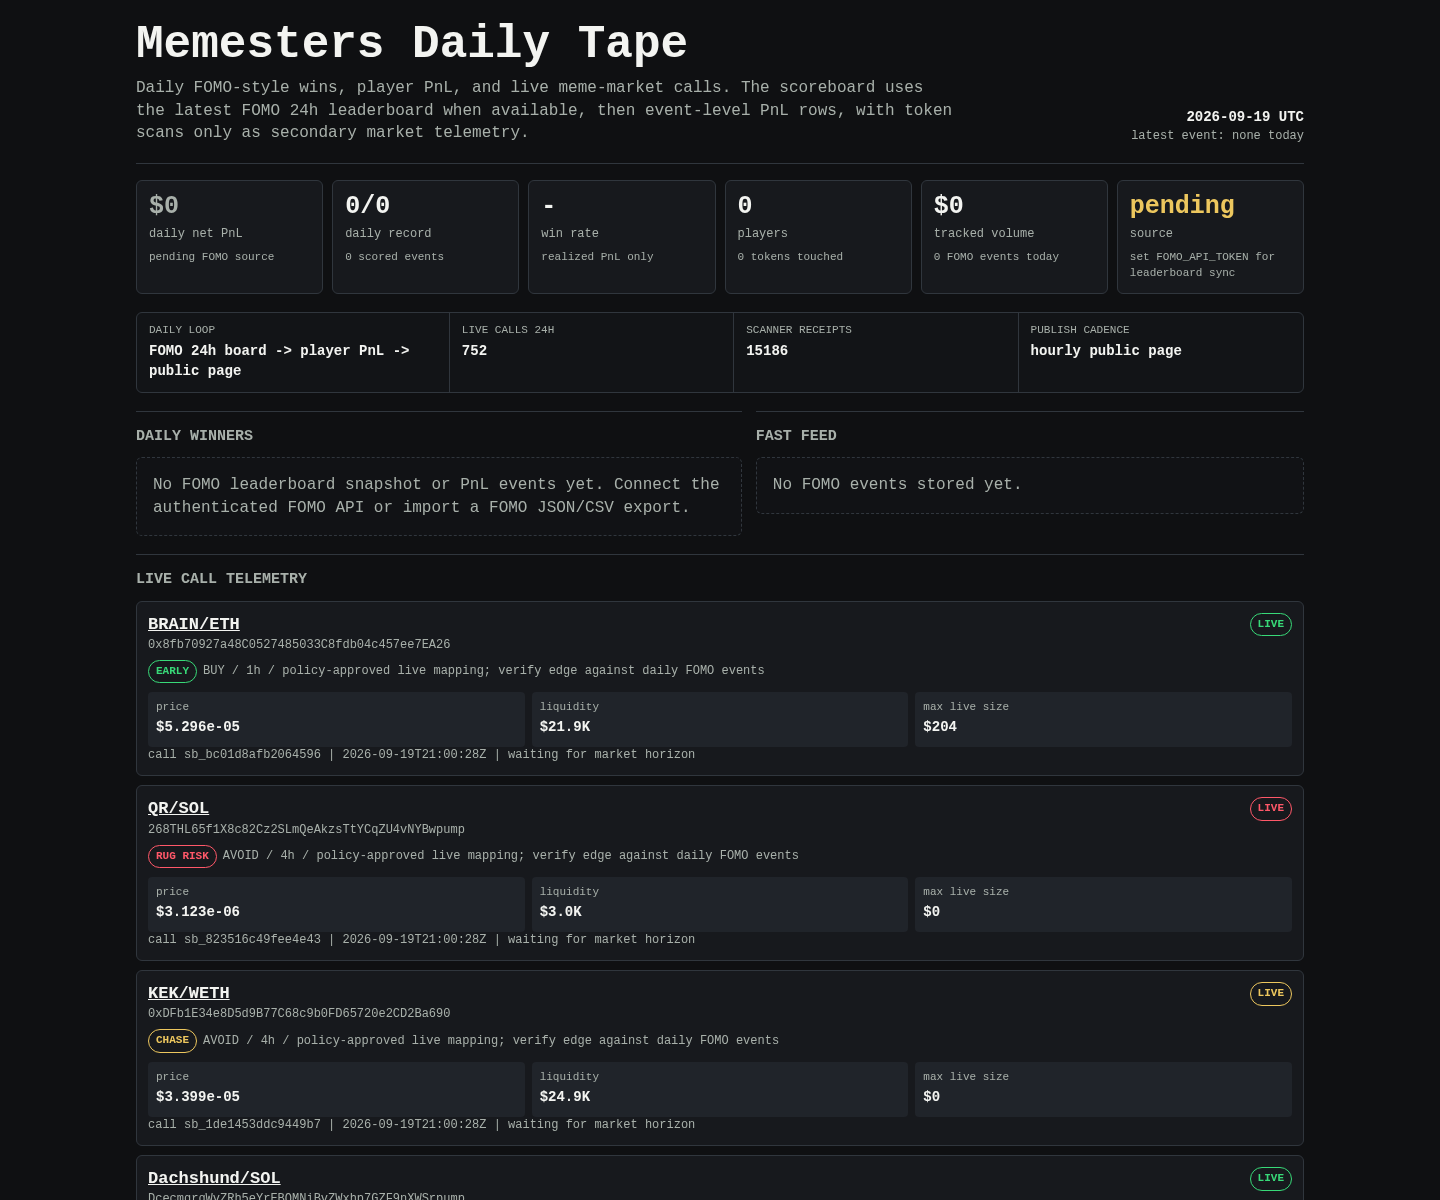
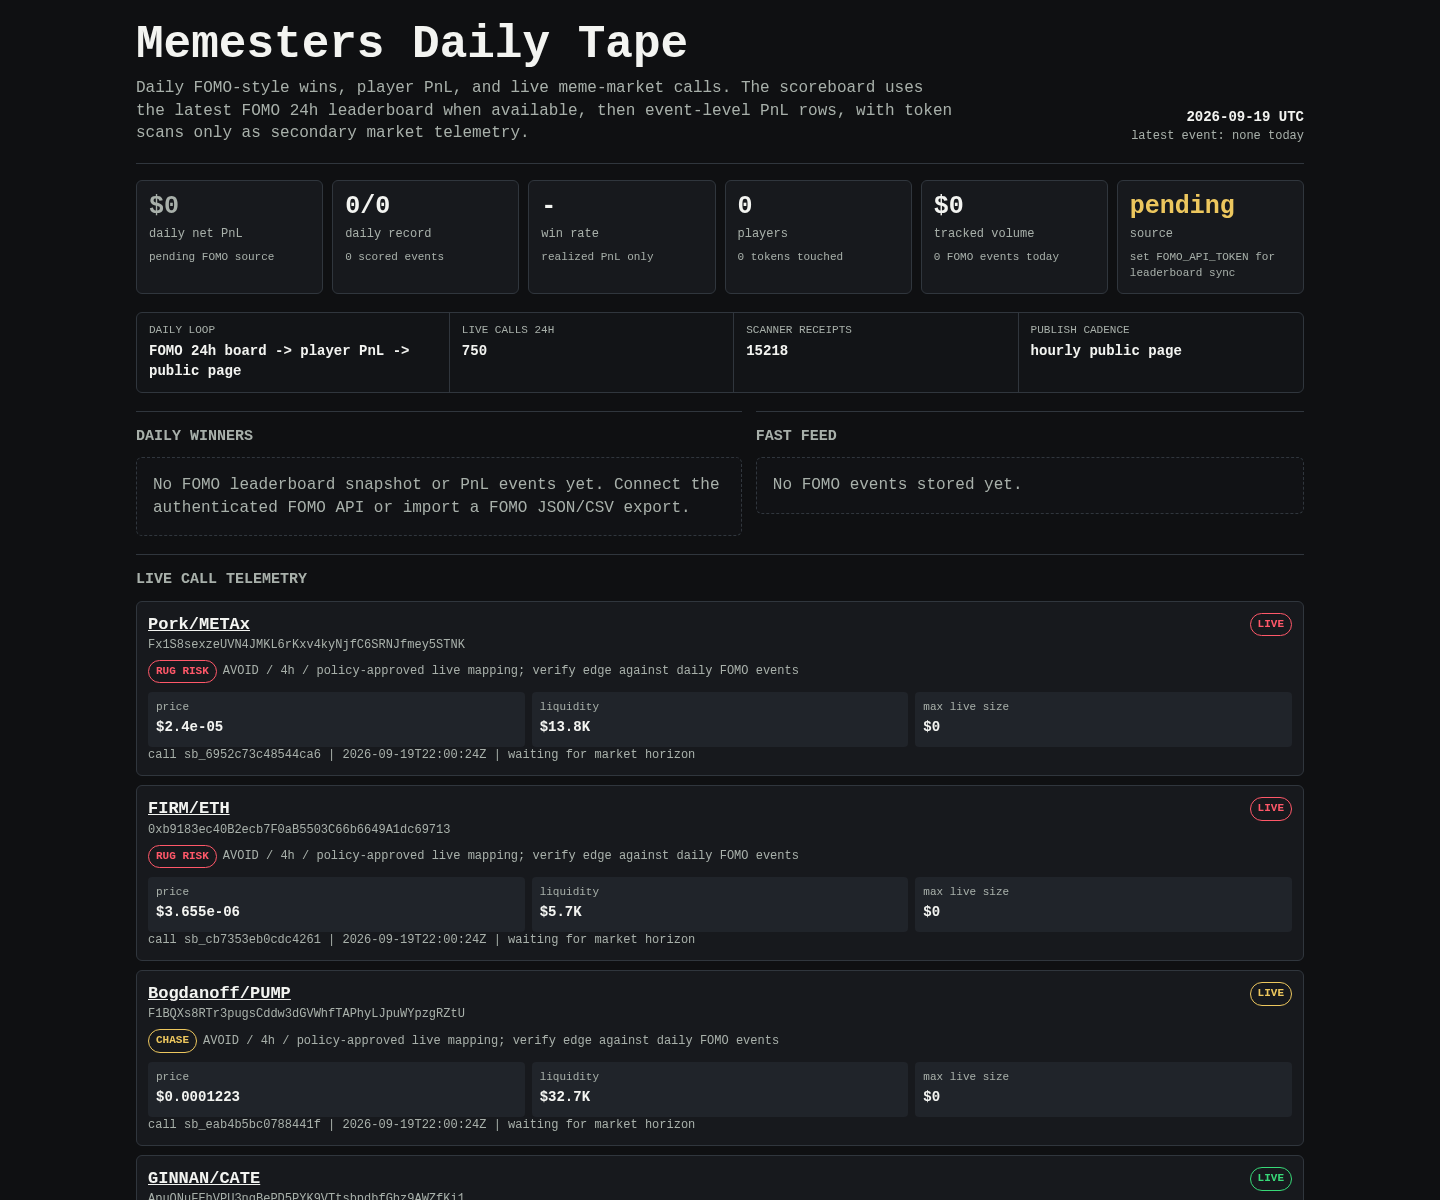
Update Memesters scoreboard

diff --git a/memesters/index.html b/memesters/index.html
@@ -149,8 +149,8 @@
 
     <div class="rail" aria-label="live operating loop">
       <div><span>daily loop</span><b>FOMO 24h board -> player PnL -> public page</b></div>
-      <div><span>live calls 24h</span><b>752</b></div>
-      <div><span>scanner receipts</span><b>15186</b></div>
+      <div><span>live calls 24h</span><b>750</b></div>
+      <div><span>scanner receipts</span><b>15218</b></div>
       <div><span>publish cadence</span><b>hourly public page</b></div>
     </div>
 
@@ -171,29 +171,8 @@
     <article class="receipt">
       <div class="receipt-head">
         <div>
-          <div class="pair"><a href="https://dexscreener.com/robinhood/0x3778ef767ceefd9889c71a11f0ebdd75c7bc11258de4c81c10d9016c1c31f048">BRAIN/ETH</a></div>
-          <div class="addr">0x8fb70927a48C0527485033C8fdb04c457ee7EA26</div>
-          <div class="addr policy-line">
-            <span class="badge early">EARLY</span>
-            <span>BUY / 1h / policy-approved live mapping; verify edge against daily FOMO events</span>
-          </div>
-        </div>
-        <span class="badge early">LIVE</span>
-      </div>
-      <div class="receipt-grid">
-        <div class="kv"><span>price</span><b>$5.296e-05</b></div>
-        <div class="kv"><span>liquidity</span><b>$21.9K</b></div>
-        <div class="kv"><span>max live size</span><b>$204</b></div>
-      </div>
-      <div class="outcomes">call sb_bc01d8afb2064596 | 2026-09-19T21:00:28Z | waiting for market horizon</div>
-    </article>
-    
-
-    <article class="receipt">
-      <div class="receipt-head">
-        <div>
-          <div class="pair"><a href="https://dexscreener.com/solana/b69tyconbtt66jct9mewpy1d8jed5vzmawpzr9cjsqtf">QR/SOL</a></div>
-          <div class="addr">268THL65f1X8c82Cz2SLmQeAkzsTtYCqZU4vNYBwpump</div>
+          <div class="pair"><a href="https://dexscreener.com/solana/9ydeqcloikrfi1vwwtbp5ksr4nquq9gfmtjwqf8gnsts">Pork/METAx</a></div>
+          <div class="addr">Fx1S8sexzeUVN4JMKL6rKxv4kyNjfC6SRNJfmey5STNK</div>
           <div class="addr policy-line">
             <span class="badge rug-risk">RUG RISK</span>
             <span>AVOID / 4h / policy-approved live mapping; verify edge against daily FOMO events</span>
@@ -202,82 +181,19 @@
         <span class="badge rug-risk">LIVE</span>
       </div>
       <div class="receipt-grid">
-        <div class="kv"><span>price</span><b>$3.123e-06</b></div>
-        <div class="kv"><span>liquidity</span><b>$3.0K</b></div>
+        <div class="kv"><span>price</span><b>$2.4e-05</b></div>
+        <div class="kv"><span>liquidity</span><b>$13.8K</b></div>
         <div class="kv"><span>max live size</span><b>$0</b></div>
       </div>
-      <div class="outcomes">call sb_823516c49fee4e43 | 2026-09-19T21:00:28Z | waiting for market horizon</div>
+      <div class="outcomes">call sb_6952c73c48544ca6 | 2026-09-19T22:00:24Z | waiting for market horizon</div>
     </article>
     
 
     <article class="receipt">
       <div class="receipt-head">
         <div>
-          <div class="pair"><a href="https://dexscreener.com/robinhood/0x358a9fb4db84d3d0fd8b0723908b9f8d5789bbae763cd3771fcef29dcd2a0f79">KEK/WETH</a></div>
-          <div class="addr">0xDFb1E34e8D5d9B77C68c9b0FD65720e2CD2Ba690</div>
-          <div class="addr policy-line">
-            <span class="badge chase">CHASE</span>
-            <span>AVOID / 4h / policy-approved live mapping; verify edge against daily FOMO events</span>
-          </div>
-        </div>
-        <span class="badge chase">LIVE</span>
-      </div>
-      <div class="receipt-grid">
-        <div class="kv"><span>price</span><b>$3.399e-05</b></div>
-        <div class="kv"><span>liquidity</span><b>$24.9K</b></div>
-        <div class="kv"><span>max live size</span><b>$0</b></div>
-      </div>
-      <div class="outcomes">call sb_1de1453ddc9449b7 | 2026-09-19T21:00:28Z | waiting for market horizon</div>
-    </article>
-    
-
-    <article class="receipt">
-      <div class="receipt-head">
-        <div>
-          <div class="pair"><a href="https://dexscreener.com/solana/bu7jkhhhchzyp1kjsxjdgv4vqydvmiphxntpag3fsacs">Dachshund/SOL</a></div>
-          <div class="addr">DcecmqrqWvZRh5eYrEBQMNiBvZWxhp7GZF9nXWSrpump</div>
-          <div class="addr policy-line">
-            <span class="badge early">EARLY</span>
-            <span>BUY / 1h / policy-approved live mapping; verify edge against daily FOMO events</span>
-          </div>
-        </div>
-        <span class="badge early">LIVE</span>
-      </div>
-      <div class="receipt-grid">
-        <div class="kv"><span>price</span><b>$0.0001145</b></div>
-        <div class="kv"><span>liquidity</span><b>$29.2K</b></div>
-        <div class="kv"><span>max live size</span><b>$350</b></div>
-      </div>
-      <div class="outcomes">call sb_cc4db5375f3a4e4d | 2026-09-19T21:00:28Z | waiting for market horizon</div>
-    </article>
-    
-
-    <article class="receipt">
-      <div class="receipt-head">
-        <div>
-          <div class="pair"><a href="https://dexscreener.com/solana/j11wex5zx7otjigrybke5smblcwfpljsdvr5wtmjdan5">Apu/SOL</a></div>
-          <div class="addr">Hr98qKCpAcSvYhu5exMp3wLf1gmwgYwscBx5BrzNpump</div>
-          <div class="addr policy-line">
-            <span class="badge chase">CHASE</span>
-            <span>AVOID / 4h / policy-approved live mapping; verify edge against daily FOMO events</span>
-          </div>
-        </div>
-        <span class="badge chase">LIVE</span>
-      </div>
-      <div class="receipt-grid">
-        <div class="kv"><span>price</span><b>$0.0001705</b></div>
-        <div class="kv"><span>liquidity</span><b>$35.2K</b></div>
-        <div class="kv"><span>max live size</span><b>$0</b></div>
-      </div>
-      <div class="outcomes">call sb_ceabfeea94384adc | 2026-09-19T21:00:28Z | waiting for market horizon</div>
-    </article>
-    
-
-    <article class="receipt">
-      <div class="receipt-head">
-        <div>
-          <div class="pair"><a href="https://dexscreener.com/solana/g5sg3rkwychm2egozajsutuylmbrjcd63kshb8ki9vcv">KEK/PEPE</a></div>
-          <div class="addr">BtFegYSVBRxyiKj3pDotZm4eASjoD51x6vp1VuryB12K</div>
+          <div class="pair"><a href="https://dexscreener.com/robinhood/0xacd4c3c1b05fcb208756aabfae66ca3946ae34bd520107c5b40dff708772c958">FIRM/ETH</a></div>
+          <div class="addr">0xb9183ec40B2ecb7F0aB5503C66b6649A1dc69713</div>
           <div class="addr policy-line">
             <span class="badge rug-risk">RUG RISK</span>
             <span>AVOID / 4h / policy-approved live mapping; verify edge against daily FOMO events</span>
@@ -286,19 +202,19 @@
         <span class="badge rug-risk">LIVE</span>
       </div>
       <div class="receipt-grid">
-        <div class="kv"><span>price</span><b>$4.467e-05</b></div>
-        <div class="kv"><span>liquidity</span><b>$18.9K</b></div>
+        <div class="kv"><span>price</span><b>$3.655e-06</b></div>
+        <div class="kv"><span>liquidity</span><b>$5.7K</b></div>
         <div class="kv"><span>max live size</span><b>$0</b></div>
       </div>
-      <div class="outcomes">call sb_ae7cee762e0f4231 | 2026-09-19T21:00:28Z | waiting for market horizon</div>
+      <div class="outcomes">call sb_cb7353eb0cdc4261 | 2026-09-19T22:00:24Z | waiting for market horizon</div>
     </article>
     
 
     <article class="receipt">
       <div class="receipt-head">
         <div>
-          <div class="pair"><a href="https://dexscreener.com/robinhood/0xca878cf94709cd8ed26189264ea74a7197cfd413bd3219e022ce2252ef0b0a42">HCUB/WETH</a></div>
-          <div class="addr">0xbDfF7457B3996ebd84106d2187fBfEbdef797ef4</div>
+          <div class="pair"><a href="https://dexscreener.com/solana/8d3fxyuxozzr7jjwmcuz3axa6ymp7rs5hfu9mc4fbb7h">Bogdanoff/PUMP</a></div>
+          <div class="addr">F1BQXs8RTr3pugsCddw3dGVWhfTAPhyLJpuWYpzgRZtU</div>
           <div class="addr policy-line">
             <span class="badge chase">CHASE</span>
             <span>AVOID / 4h / policy-approved live mapping; verify edge against daily FOMO events</span>
@@ -307,40 +223,19 @@
         <span class="badge chase">LIVE</span>
       </div>
       <div class="receipt-grid">
-        <div class="kv"><span>price</span><b>$8.964e-07</b></div>
-        <div class="kv"><span>liquidity</span><b>$76.7K</b></div>
+        <div class="kv"><span>price</span><b>$0.0001223</b></div>
+        <div class="kv"><span>liquidity</span><b>$32.7K</b></div>
         <div class="kv"><span>max live size</span><b>$0</b></div>
       </div>
-      <div class="outcomes">call sb_1bcd6903a1364a68 | 2026-09-19T21:00:28Z | waiting for market horizon</div>
+      <div class="outcomes">call sb_eab4b5bc0788441f | 2026-09-19T22:00:24Z | waiting for market horizon</div>
     </article>
     
 
     <article class="receipt">
       <div class="receipt-head">
         <div>
-          <div class="pair"><a href="https://dexscreener.com/solana/gnbs241ssws4supbra9rsvauht3d9pr3hi2qwztvqnxe">NPC/SPYx</a></div>
-          <div class="addr">y3JZqa4rw25qv2Fmgi3P7qTW9PMhnqkvzd1wSuepump</div>
-          <div class="addr policy-line">
-            <span class="badge rug-risk">RUG RISK</span>
-            <span>AVOID / 4h / policy-approved live mapping; verify edge against daily FOMO events</span>
-          </div>
-        </div>
-        <span class="badge rug-risk">LIVE</span>
-      </div>
-      <div class="receipt-grid">
-        <div class="kv"><span>price</span><b>$2.064e-05</b></div>
-        <div class="kv"><span>liquidity</span><b>$12.0K</b></div>
-        <div class="kv"><span>max live size</span><b>$0</b></div>
-      </div>
-      <div class="outcomes">call sb_8e86217951be4a61 | 2026-09-19T21:00:28Z | waiting for market horizon</div>
-    </article>
-    
-
-    <article class="receipt">
-      <div class="receipt-head">
-        <div>
-          <div class="pair"><a href="https://dexscreener.com/solana/hj2s3eybrred69mhv81pw2urypqh4msuqza6ryejnlig">OnlyCats/SOL</a></div>
-          <div class="addr">BmkJ2GHnYz1tk3tKKq12yx62KxRPCxnqb3GUoaPipump</div>
+          <div class="pair"><a href="https://dexscreener.com/solana/abt5qdsuqumch3dzdzzntnrkvntakuu6fi7pjk74evtm">GINNAN/CATE</a></div>
+          <div class="addr">ApuQNuFEhVPU3ngBePD5PYK9VTtsbpdbfGbz9AWZfKi1</div>
           <div class="addr policy-line">
             <span class="badge early">EARLY</span>
             <span>BUY / 1h / policy-approved live mapping; verify edge against daily FOMO events</span>
@@ -349,19 +244,19 @@
         <span class="badge early">LIVE</span>
       </div>
       <div class="receipt-grid">
-        <div class="kv"><span>price</span><b>$0.000105</b></div>
-        <div class="kv"><span>liquidity</span><b>$27.3K</b></div>
-        <div class="kv"><span>max live size</span><b>$328</b></div>
+        <div class="kv"><span>price</span><b>$3.364e-05</b></div>
+        <div class="kv"><span>liquidity</span><b>$16.6K</b></div>
+        <div class="kv"><span>max live size</span><b>$200</b></div>
       </div>
-      <div class="outcomes">call sb_97b11673530e4059 | 2026-09-19T20:45:22Z | waiting for market horizon</div>
+      <div class="outcomes">call sb_a97c0441a2714d33 | 2026-09-19T22:00:24Z | waiting for market horizon</div>
     </article>
     
 
     <article class="receipt">
       <div class="receipt-head">
         <div>
-          <div class="pair"><a href="https://dexscreener.com/solana/agwrab8u4szerv2v3bcobydxnzfk3dhrsxp71yauvpjt">FEELSBAD/PEPE</a></div>
-          <div class="addr">8QfGp7PrMjrQuZEUCWn4SbrXuKy7xsrkNjjQGCVZrz2G</div>
+          <div class="pair"><a href="https://dexscreener.com/robinhood/0x44a6dda152f187878ad59b923e3b4bbf7092288623ab568e1120176c6aea563c">JEV/USDG</a></div>
+          <div class="addr">0x953DEC6Ec5358fD86Bc0C29a23d23c17041fDa11</div>
           <div class="addr policy-line">
             <span class="badge chase">CHASE</span>
             <span>AVOID / 4h / policy-approved live mapping; verify edge against daily FOMO events</span>
@@ -370,11 +265,116 @@
         <span class="badge chase">LIVE</span>
       </div>
       <div class="receipt-grid">
-        <div class="kv"><span>price</span><b>$2.578e-05</b></div>
-        <div class="kv"><span>liquidity</span><b>$14.9K</b></div>
+        <div class="kv"><span>price</span><b>$9.721e-06</b></div>
+        <div class="kv"><span>liquidity</span><b>$6.8K</b></div>
         <div class="kv"><span>max live size</span><b>$0</b></div>
       </div>
-      <div class="outcomes">call sb_f75725118f414b8d | 2026-09-19T20:45:22Z | waiting for market horizon</div>
+      <div class="outcomes">call sb_0dad3d74a6134249 | 2026-09-19T22:00:24Z | waiting for market horizon</div>
+    </article>
+    
+
+    <article class="receipt">
+      <div class="receipt-head">
+        <div>
+          <div class="pair"><a href="https://dexscreener.com/solana/hhcecemvwkbmhl9cq9wkiknwx76rfzcw9oyznuwjeza2">HODL/STONK</a></div>
+          <div class="addr">Am7Q3UKqczvZkv6tt6BLp7Q4NpyathrmXosecczu3Est</div>
+          <div class="addr policy-line">
+            <span class="badge rug-risk">RUG RISK</span>
+            <span>AVOID / 4h / policy-approved live mapping; verify edge against daily FOMO events</span>
+          </div>
+        </div>
+        <span class="badge rug-risk">LIVE</span>
+      </div>
+      <div class="receipt-grid">
+        <div class="kv"><span>price</span><b>$4.202e-06</b></div>
+        <div class="kv"><span>liquidity</span><b>$5.6K</b></div>
+        <div class="kv"><span>max live size</span><b>$0</b></div>
+      </div>
+      <div class="outcomes">call sb_4cb030be59664675 | 2026-09-19T22:00:23Z | waiting for market horizon</div>
+    </article>
+    
+
+    <article class="receipt">
+      <div class="receipt-head">
+        <div>
+          <div class="pair"><a href="https://dexscreener.com/solana/7u3bpsbsxucgabdrhhathemyufmcseptyajk96qg6xbp">PEEPEE/PEPE</a></div>
+          <div class="addr">GJWu1rjX47ZxkGdDJpTKr3okRiu5r9s1Y5nsbf76sfm4</div>
+          <div class="addr policy-line">
+            <span class="badge rug-risk">RUG RISK</span>
+            <span>AVOID / 4h / policy-approved live mapping; verify edge against daily FOMO events</span>
+          </div>
+        </div>
+        <span class="badge rug-risk">LIVE</span>
+      </div>
+      <div class="receipt-grid">
+        <div class="kv"><span>price</span><b>$2.499e-05</b></div>
+        <div class="kv"><span>liquidity</span><b>$14.1K</b></div>
+        <div class="kv"><span>max live size</span><b>$0</b></div>
+      </div>
+      <div class="outcomes">call sb_b2f72bc1f29e4fae | 2026-09-19T22:00:23Z | waiting for market horizon</div>
+    </article>
+    
+
+    <article class="receipt">
+      <div class="receipt-head">
+        <div>
+          <div class="pair"><a href="https://dexscreener.com/base/0x09db9be4e6fe63d8ae9696451fe829504e44c5b2">DOOGLER/GOOGLc</a></div>
+          <div class="addr">0xFf70B676aA2f96E293f020539b36d817179dBaa3</div>
+          <div class="addr policy-line">
+            <span class="badge chase">CHASE</span>
+            <span>AVOID / 4h / policy-approved live mapping; verify edge against daily FOMO events</span>
+          </div>
+        </div>
+        <span class="badge chase">LIVE</span>
+      </div>
+      <div class="receipt-grid">
+        <div class="kv"><span>price</span><b>$7.728e-05</b></div>
+        <div class="kv"><span>liquidity</span><b>$31.5K</b></div>
+        <div class="kv"><span>max live size</span><b>$0</b></div>
+      </div>
+      <div class="outcomes">call sb_ec45a96bde0649a2 | 2026-09-19T21:45:24Z | waiting for market horizon</div>
+    </article>
+    
+
+    <article class="receipt">
+      <div class="receipt-head">
+        <div>
+          <div class="pair"><a href="https://dexscreener.com/solana/dzbbeloejp7xftpmbw86e1j8mr4kkqznaze37ukx78zm">chinese/BABA</a></div>
+          <div class="addr">4yFji5xXra5ew3iiHmajR7jgzt12ivqTMwnwRuG4MRW9</div>
+          <div class="addr policy-line">
+            <span class="badge early">EARLY</span>
+            <span>BUY / 1h / policy-approved live mapping; verify edge against daily FOMO events</span>
+          </div>
+        </div>
+        <span class="badge early">LIVE</span>
+      </div>
+      <div class="receipt-grid">
+        <div class="kv"><span>price</span><b>$3.669e-05</b></div>
+        <div class="kv"><span>liquidity</span><b>$19.4K</b></div>
+        <div class="kv"><span>max live size</span><b>$233</b></div>
+      </div>
+      <div class="outcomes">call sb_9efda06924364ce3 | 2026-09-19T21:45:23Z | waiting for market horizon</div>
+    </article>
+    
+
+    <article class="receipt">
+      <div class="receipt-head">
+        <div>
+          <div class="pair"><a href="https://dexscreener.com/robinhood/0x05787b6684b5d3cf84194ed3b5bc299be57551c2ea29b7d4aea4c300870f59c9">TIPONS/ETH</a></div>
+          <div class="addr">0x11AF80Bd6ae3b8d2BdAE6B7f8d361777bf6ED719</div>
+          <div class="addr policy-line">
+            <span class="badge early">EARLY</span>
+            <span>BUY / 1h / policy-approved live mapping; verify edge against daily FOMO events</span>
+          </div>
+        </div>
+        <span class="badge early">LIVE</span>
+      </div>
+      <div class="receipt-grid">
+        <div class="kv"><span>price</span><b>$5.684e-05</b></div>
+        <div class="kv"><span>liquidity</span><b>$22.6K</b></div>
+        <div class="kv"><span>max live size</span><b>$67</b></div>
+      </div>
+      <div class="outcomes">call sb_40daf5374e444889 | 2026-09-19T21:45:23Z | waiting for market horizon</div>
     </article>
     
     </section>
